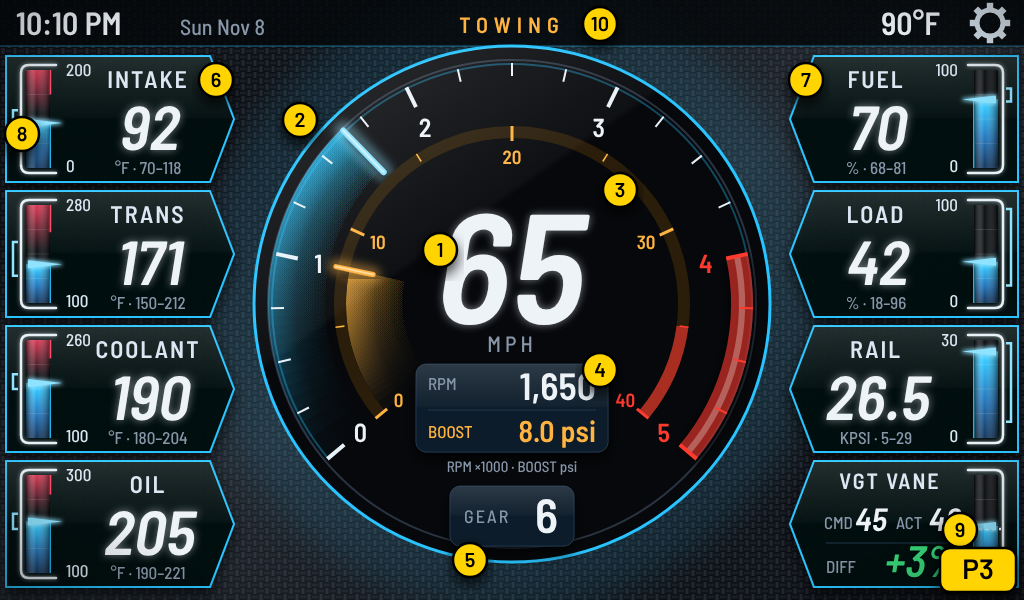
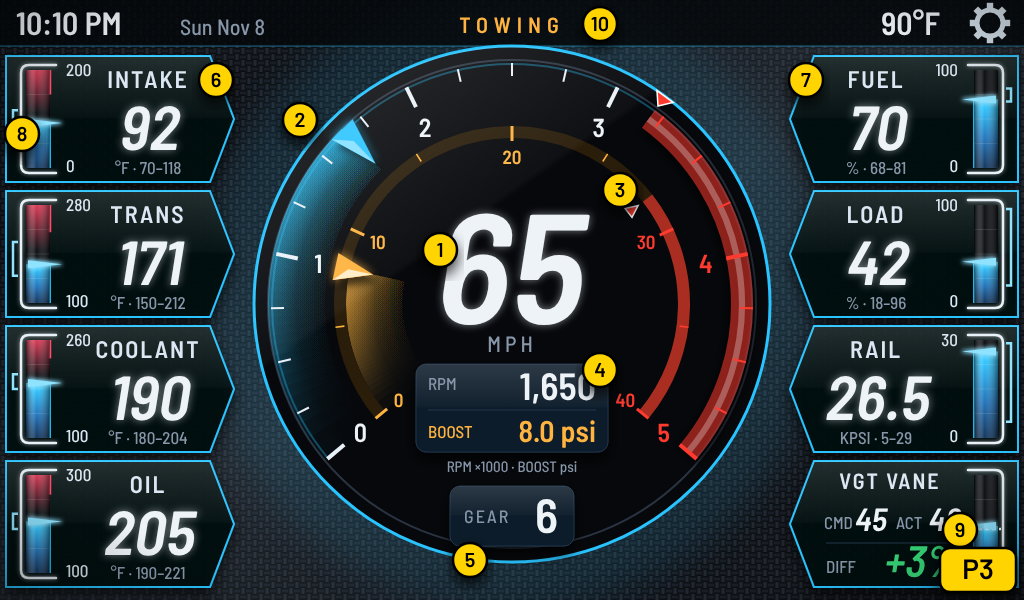
Mockups v2: P3 wedge pointers, RPM/boost alarm limits that turn the whole trail red, limits popup
Claude-Session: https://claude.ai/code/session_01NB1fkpFcGY28RY4JZ8NWPC

Changed region(s): [[0.5938, 0.15, 0.75, 0.54], [0.3125, 0.18, 0.4062, 0.3], [0.3125, 0.42, 0.375, 0.48]]

diff --git a/docs/mockups/v2.html b/docs/mockups/v2.html
@@ -289,6 +289,7 @@ pages.classic_trend=()=>{let o=`<rect width="1024" height="600" fill="#0d0d0f"/>
 
 // Premium Towing: aftermarket diesel-monitor look (carbon, segmented EGT arc, side data panels)
 pages.premium_towing=()=>{const CX=512,CY=304,RD=258;
+  const rpm=+(q.get('rpm')||V.rpm),bst=+(q.get('boost')||V.boost),RMAX=+(q.get('rmax')||3200),BMAX=+(q.get('bmax')||28),rHot=rpm>=RMAX,bHot=bst>=BMAX;
   const ACCS={cyan:['#29c4ff','#8fe3ff','#1b78c8','#0d3d73','#5fd4ff'],green:['#2fe37a','#9dffc4','#169a4e','#0a4424','#6af2a2'],
     orange:['#ff8a1e','#ffc48a','#c4560a','#5a2604','#ffab5c'],red:['#ff3b4f','#ff9aa5','#b0182a','#4d0912','#ff6b7a'],
     purple:['#a66bff','#d6bdff','#6b33c4','#2e1557','#c09bff'],white:['#e8eef5','#ffffff','#8c96a3','#353b43','#f4f8fb']};
@@ -320,27 +321,35 @@ pages.premium_towing=()=>{const CX=512,CY=304,RD=258;
   o+=`<circle cx="${CX}" cy="${CY}" r="${RD}" fill="#06080b" stroke="${CY2}" stroke-width="3"/><circle cx="${CX}" cy="${CY}" r="${RD-14}" fill="none" stroke="#2a3340" stroke-width="2"/>`;
   const A0=140,SW=260;
   // light trails behind both needles (drawn on the face, under the scales)
-  o+=trail(182,RD-14,A0,A0+SW*V.rpm/5000,ACC[0],.75,'trO')+trail(104,166,A0,A0+SW*V.boost/40,SEC,.7,'trI');
+  o+=trail(182,RD-14,A0,A0+SW*rpm/5000,rHot?C.red:ACC[0],rHot?.95:.75,'trO')+trail(104,166,A0,A0+SW*bst/40,bHot?C.red:SEC,bHot?.95:.7,'trI');
   // outer scale: RPM with a needle
   const RO=230,ar=v=>A0+SW*v/5;
   o+=`<path d="${arc(CX,CY,RO+10,A0,A0+SW)}" stroke="${ACC[0]}" stroke-opacity=".35" stroke-width="2" fill="none"/>`;
-  o+=`<path d="${arc(CX,CY,RO,ar(4),ar(5))}" stroke="${C.red}" stroke-width="22" fill="none" opacity=".6"/>`;
-  for(let v=0;v<=5;v+=.25){const maj=v%1==0,[x1,y1]=P(CX,CY,RO+11,ar(v)),[x2,y2]=P(CX,CY,RO-(maj?11:2),ar(v));o+=`<line x1="${n1(x1)}" y1="${n1(y1)}" x2="${n1(x2)}" y2="${n1(y2)}" stroke="${v>=4?C.red:'#e9f1f8'}" stroke-width="${maj?4:2}"/>`}
-  for(let v=0;v<=5;v++){const[x,y]=P(CX,CY,RO-32,ar(v));o+=T(x,y,26,v,{db:'central',c:v>=4?C.red:C.text,f:'C6'})}
-  o+=needle(CX,CY,RO-46,RO+12,ar(V.rpm/1000),ACC[1],6);
+  o+=`<path d="${arc(CX,CY,RO,ar(RMAX/1000),ar(5))}" stroke="${C.red}" stroke-width="22" fill="none" opacity=".55"/>`;
+  for(let v=0;v<=5;v+=.25){const maj=v%1==0,[x1,y1]=P(CX,CY,RO+11,ar(v)),[x2,y2]=P(CX,CY,RO-(maj?11:2),ar(v));o+=`<line x1="${n1(x1)}" y1="${n1(y1)}" x2="${n1(x2)}" y2="${n1(y2)}" stroke="${v*1000>=RMAX?C.red:'#e9f1f8'}" stroke-width="${maj?4:2}"/>`}
+  for(let v=0;v<=5;v++){const[x,y]=P(CX,CY,RO-32,ar(v));o+=T(x,y,26,v,{db:'central',c:v*1000>=RMAX?C.red:C.text,f:'C6'})}
+  function wedge(r0,r1,an,w,col,lite){const[bx1,by1]=P(CX,CY,r0,an-w),[bx2,by2]=P(CX,CY,r0,an+w),[tx,ty]=P(CX,CY,r1,an),[mx,my]=P(CX,CY,r0+(r1-r0)*.35,an);
+    return `<polygon points="${n1(bx1)},${n1(by1)} ${n1(tx)},${n1(ty)} ${n1(bx2)},${n1(by2)}" fill="${col}" opacity=".8" filter="url(#glowU)"/>`+
+      `<polygon points="${n1(bx1)},${n1(by1)} ${n1(tx)},${n1(ty)} ${n1(bx2)},${n1(by2)}" fill="${col}" filter="url(#nshadow)"/>`+
+      `<polygon points="${n1(bx1)},${n1(by1)} ${n1(tx)},${n1(ty)} ${n1(mx)},${n1(my)}" fill="${lite}" opacity=".9"/>`}
+  function limitMark(r,an,out){const[x0,y0]=P(CX,CY,r+(out?16:-16),an),[x1,y1]=P(CX,CY,r+(out?4:-4),an),[a1,b1]=P(CX,CY,r+(out?16:-16),an-2.2),[a2,b2]=P(CX,CY,r+(out?16:-16),an+2.2);
+    return `<polygon points="${n1(a1)},${n1(b1)} ${n1(x1)},${n1(y1)} ${n1(a2)},${n1(b2)}" fill="${C.red}" stroke="#fff" stroke-width="1.5"/>`}
+  o+=limitMark(RO+12,ar(RMAX/1000),true);
+  o+=wedge(RO+14,RO-34,ar(rpm/1000),3.4,rHot?C.red:ACC[0],rHot?'#ffd0d4':ACC[1]);
   // inner scale: BOOST with its own needle
   const RI=172,ab=v=>A0+SW*v/40;
   o+=`<path d="${arc(CX,CY,RI,A0,A0+SW)}" stroke="#2a1d0a" stroke-width="12" fill="none"/>`;
-  o+=`<path d="${arc(CX,CY,RI,ab(35),ab(40))}" stroke="${C.red}" stroke-width="12" fill="none" opacity=".6"/>`;
-  for(let v=0;v<=40;v+=5){const maj=v%10==0,[x1,y1]=P(CX,CY,RI+6,ab(v)),[x2,y2]=P(CX,CY,RI-(maj?9:3),ab(v));o+=`<line x1="${n1(x1)}" y1="${n1(y1)}" x2="${n1(x2)}" y2="${n1(y2)}" stroke="${v>=35?C.red:SEC}" stroke-width="${maj?3:1.6}"/>`}
-  for(let v=0;v<=40;v+=10){const[x,y]=P(CX,CY,RI-24,ab(v));o+=T(x,y,19,v,{db:'central',c:v>=35?C.red:SEC,f:'C6'})}
-  o+=needle(CX,CY,RI-30,RI+8,ab(V.boost),SEC,5);
+  o+=`<path d="${arc(CX,CY,RI,ab(BMAX),ab(40))}" stroke="${C.red}" stroke-width="12" fill="none" opacity=".6"/>`;
+  for(let v=0;v<=40;v+=5){const maj=v%10==0,[x1,y1]=P(CX,CY,RI+6,ab(v)),[x2,y2]=P(CX,CY,RI-(maj?9:3),ab(v));o+=`<line x1="${n1(x1)}" y1="${n1(y1)}" x2="${n1(x2)}" y2="${n1(y2)}" stroke="${v>=BMAX?C.red:SEC}" stroke-width="${maj?3:1.6}"/>`}
+  for(let v=0;v<=40;v+=10){const[x,y]=P(CX,CY,RI-24,ab(v));o+=T(x,y,19,v,{db:'central',c:v>=BMAX?C.red:SEC,f:'C6'})}
+  o+=limitMark(RI-8,ab(BMAX),false);
+  o+=wedge(RI+9,RI-30,ab(bst),4.4,bHot?C.red:SEC,bHot?'#ffd0d4':'#fff3d6');
   // speed, big; RPM digits with boost under them
   o+=sk(CX-6,CY+20,156,V.mph)+T(CX,CY+48,22,'MPH',{c:C.dim,ls:4,f:'C5'});
   o+=`<rect x="${CX-96}" y="${CY+60}" width="192" height="88" rx="10" fill="#0f1b2a" stroke="#22364d"/>`+T(CX,CY+168,15,'RPM ×1000  ·  BOOST psi',{c:C.dim,f:'C5'});
-  o+=T(CX-84,CY+86,17,'RPM',{a:'start',c:C.dim,f:'C5'})+T(CX+84,CY+96,38,fmt(V.rpm),{a:'end',f:'C6'});
+  o+=T(CX-84,CY+86,17,'RPM',{a:'start',c:C.dim,f:'C5'})+T(CX+84,CY+96,38,fmt(rpm),{a:'end',f:'C6',c:rHot?C.red:C.text});
   o+=`<line x1="${CX-84}" y1="${CY+106}" x2="${CX+84}" y2="${CY+106}" stroke="#22364d"/>`;
-  o+=T(CX-84,CY+134,17,'BOOST',{a:'start',c:SEC,f:'C5'})+T(CX+84,CY+138,30,V.boost.toFixed(1)+' psi',{a:'end',f:'C6',c:SEC});
+  o+=T(CX-84,CY+134,17,'BOOST',{a:'start',c:SEC,f:'C5'})+T(CX+84,CY+138,30,bst.toFixed(1)+' psi',{a:'end',f:'C6',c:bHot?C.red:SEC});
   // gear below the circle
   o+=`<rect x="${CX-62}" y="${CY+182}" width="124" height="60" rx="10" fill="#0f1b2a" stroke="#22364d"/>`+T(CX-48,CY+219,18,'GEAR',{a:'start',c:C.dim,f:'C5',ls:2})+T(CX+46,CY+229,48,V.gear,{a:'end',f:'C6'});
   // Premium vertical bar: outline frame, red zone fading down, fill fading down from a bright top edge, pointer wedge,
@@ -391,6 +400,16 @@ pages.premium_towing=()=>{const CX=512,CY=304,RD=258;
     o+=T(cx,y+32,24,lab,{f:'C6',c:'#dbe7f2',ls:2})+sk(cx,y+94,62,val,{c:hot?C.red:C.text})+T(cx,y+118,17,[u,rng&&rng[3]!=null?rng[3]+'–'+rng[4]:''].filter(Boolean).join('  ·  '),{c:C.dim,f:'C5'});
     if(rng)o+=rbar(bx,y+14,h-28,rng[0],rng[1],rng[2],rng[3],rng[4],val,{left});
 }));
+  if(q.get('limits')){o+=`<rect width="1024" height="600" fill="#000" opacity=".72"/><rect x="172" y="90" width="680" height="420" rx="18" fill="#0b131d" stroke="${CY2}" stroke-width="2"/>`;
+    o+=T(204,142,30,'Alarm limits',{a:'start',f:'C6'})+T(204,172,19,'At or above the limit, the whole light trail turns red.',{a:'start',c:C.dim,f:'C5'});
+    [['RPM',fmt(RMAX),'rpm',ACC[0]],['Boost',BMAX,'psi',SEC]].forEach(([l,v,u,c],i)=>{const y=206+i*120;
+      o+=`<rect x="204" y="${y}" width="616" height="100" rx="14" fill="#111c29" stroke="#22364d"/><rect x="204" y="${y}" width="8" height="100" rx="4" fill="${c}"/>`;
+      o+=T(232,y+62,30,l,{a:'start',f:'C6'});
+      o+=`<rect x="440" y="${y+16}" width="88" height="68" rx="12" fill="#1a2a3d" stroke="#2a4260"/>`+T(484,y+64,44,'−',{f:'C6'});
+      o+=T(626,y+66,46,v,{f:'C6',c:C.red})+T(626,y+90,16,u,{c:C.dim,f:'C5'});
+      o+=`<rect x="716" y="${y+16}" width="88" height="68" rx="12" fill="#1a2a3d" stroke="#2a4260"/>`+T(760,y+64,44,'+',{f:'C6'})});
+    o+=`<rect x="204" y="440" width="230" height="56" rx="12" fill="#111c29" stroke="#22364d"/>`+T(319,476,22,'Reset to default',{f:'C6',c:C.dim});
+    o+=`<rect x="660" y="440" width="160" height="56" rx="12" fill="${CY2}"/>`+T(740,477,24,'Done',{f:'C6',c:'#000'})}
   if(q.get('colors')){o+=`<rect width="1024" height="600" fill="#000" opacity=".72"/><rect x="72" y="40" width="880" height="520" rx="18" fill="#0b131d" stroke="${CY2}" stroke-width="2"/>`;
     o+=T(104,90,30,'Colors',{a:'start',f:'C6'});
     [['Main accent',ACC[0],1],['Second accent',SEC,0]].forEach(([t,c,on],i)=>{const y=120+i*84;o+=`<rect x="104" y="${y}" width="250" height="70" rx="12" fill="${on?'#134a74':'#111c29'}" stroke="${on?CY2:'#22364d'}" stroke-width="${on?3:1.5}"/><circle cx="140" cy="${y+35}" r="18" fill="${c}" stroke="#fff" stroke-width="2"/>`+T(170,y+43,24,t,{a:'start',f:'C6'})});
@@ -470,7 +489,7 @@ let spill=TH=='classic'?'<rect width="1024" height="600" fill="url(#brushed)"/>'
 GL.forEach(([cx,cy,r])=>spill+=`<circle cx="${cx}" cy="${cy}" r="${(r*1.12).toFixed(0)}" fill="${TH=='classic'?C.green:C.acc}" opacity="${TH=='classic'?.07:.12}" filter="url(#bloomBig)"/>`);
 s=s.replace('<!--SPILL-->',spill)+pg;
 // glass on every dial and window, then a vignette
-if(!q.get('pick')&&!q.get('colors'))GL.forEach(([cx,cy,r])=>s+=`<circle cx="${cx}" cy="${cy}" r="${r}" fill="url(#glassG)"/>`);
+if(!q.get('pick')&&!q.get('colors')&&!q.get('limits'))GL.forEach(([cx,cy,r])=>s+=`<circle cx="${cx}" cy="${cy}" r="${r}" fill="url(#glassG)"/>`);
 GLR.forEach(([x,y,w,h,r])=>s+=`<rect x="${x}" y="${y}" width="${w}" height="${h}" rx="${r}" fill="url(#glassG)"/>`);
 s+='<rect width="1024" height="600" fill="url(#vign)" pointer-events="none"/>';
 // ?n=1: numbered callouts so feedback can say "P2-4" or "C3-6"

diff --git a/docs/mockups/v2/KEY.md b/docs/mockups/v2/KEY.md
@@ -7,7 +7,7 @@ renders are in `numbered/`.
 |---|---|
 | **P1** Premium Daily | 1 tach that wraps into the top bar · 2 gear dial · 3 center card (boost/trans/MPG) · 4 speedo · 5 odometer · 6 coolant · 7 fuel % and range · 8 clock/date bar |
 | **P2** Premium Sport | 1 big center tach · 2 speed · 3 gear · 4 red-zone glow · 5 coolant bar · 6 trans bar · 7 boost bar · 8 oil bar |
-| **P3** Premium Towing (rev 3) | 1 speed (big, center) · 2 RPM needle with a light trail (lit wedge on the face from 0 to the needle) · 3 boost needle on the inner scale with its own light trail · 4 RPM digits with boost under them · 5 gear (bottom of the circle) · 6 left panels (intake/trans/coolant/oil) · 7 right panels (fuel/load/rail/VGT) · 8 premium vertical bars: outline frame, red zone fading down, fill fading down from a bright top edge, pointer at now, scale min/max, this drive's min–max bracket (also under the value) · 9 VGT vane: CMD, ACT and DIFF (amber at 5%, red at 10%) · 10 top bar: time, date, page, outside temp, settings |
+| **P3** Premium Towing (rev 3) | 1 speed (big, center) · 2 RPM wedge pointer with a light trail (lit wedge on the face from 0 to the pointer) · 3 boost wedge pointer on the inner scale with its own light trail. Each has a user alarm limit (red marker; red zone starts there); at or above it the whole trail, the pointer and the digits turn red (`premium_towing_alarm.png`, limits popup `premium_towing_limits.png`) · 4 RPM digits with boost under them · 5 gear (bottom of the circle) · 6 left panels (intake/trans/coolant/oil) · 7 right panels (fuel/load/rail/VGT) · 8 premium vertical bars: outline frame, red zone fading down, fill fading down from a bright top edge, pointer at now, scale min/max, this drive's min–max bracket (also under the value) · 9 VGT vane: CMD, ACT and DIFF (amber at 5%, red at 10%) · 10 top bar: time, date, page, outside temp, settings |
 | **P4** Premium Economy | 1 open-arc tach · 2 speed · 3 gear · 4 fuel bar · 5 fuel % and range · 6 trip/tank boxes · 7 MPG bar with tank-avg marker · 8 MPG now/trip/last 10 · 9 telltales |
 | **P5** Premium Trend | 1 channel list · 2 live values · 3 chart · 4 tap cursor · 5 min/avg/max · 6 time window buttons |
 | **C1** Classic Daily | 1 digital speed/gear window · 2 sweep speedo · 3 odometer · 4 round tach · 5 temp/trans window · 6 boost/fuel window · 7 clock |
